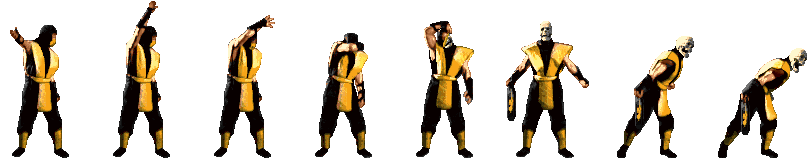
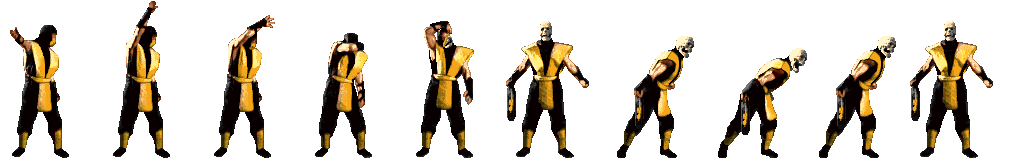
state FatalityHitting

diff --git a/view/GameView.cpp b/view/GameView.cpp
@@ -77,7 +77,7 @@ GameView::~GameView() {
     if (raidenWalk != NULL ) delete  raidenWalk;
     if (scorpionFatalityHit != NULL ) delete  scorpionFatalityHit;
     if (scorpionFatalityFire != NULL ) delete  scorpionFatalityFire;
-    if (scorpionOnFire != NULL ) delete  scorpionOnFire;
+    if (scorpionReceivingFire != NULL ) delete  scorpionReceivingFire;
 
     if (raidenStance != NULL) delete  raidenStance;
     if (raidenJump != NULL ) delete  raidenJump;
@@ -99,7 +99,7 @@ GameView::~GameView() {
     if (raidenBlock != NULL ) delete  raidenBlock;
     if (raidenFatalityHit != NULL ) delete  raidenFatalityHit;
     if (raidenFatalityFire != NULL ) delete  raidenFatalityFire;
-    if (raidenOnFire != NULL ) delete  raidenOnFire;
+    if (raidenReceivingFire != NULL ) delete  raidenReceivingFire;
 
     for (int i = 1 ; i < layerCount ; i++) {
         delete layerSprites[i];
@@ -180,22 +180,22 @@ void GameView::LoadSprites(string name1, string name2) {
             this->loadAsScorpion(scorpionWalk,scorpionStance,scorpionJump,scorpionDuck,scorpionSideJump,scorpionHighKick,scorpionLowKick,
             					scorpionDuckKick,scorpionJumpKick,scorpionPunchJump,scorpionDuckPunch,scorpionHighPunch,scorpionLowPunch,
             					scorpionWinner, scorpionShoot, scorpionDizzy,scorpionFall,scorpionBeingHit,
-            					scorpionBeingHitDown, scorpionBlockDown, scorpionBlock, scorpionFatalityHit, scorpionFatalityFire,scorpionOnFire, false);
+            					scorpionBeingHitDown, scorpionBlockDown, scorpionBlock, scorpionFatalityHit, scorpionFatalityFire,scorpionReceivingFire, false);
 
             this->loadAsScorpion(raidenWalk,raidenStance,raidenJump,raidenDuck,raidenSideJump,raidenHighKick,raidenLowKick,
             		raidenDuckKick,raidenJumpKick,raidenPunchJump,raidenDuckPunch,raidenPunch,raidenLowPunch,raidenWinner,
                                 raidenShoot, raidenDizzy,raidenFall,raidenBeingHit,raidenBeingHitDown,
-                                raidenBlockDown, raidenBlock,raidenFatalityHit, raidenFatalityFire,raidenOnFire, colorAltered);
+                                raidenBlockDown, raidenBlock,raidenFatalityHit, raidenFatalityFire,raidenReceivingFire, colorAltered);
         } else {
             this->loadAsRaiden(scorpionWalk,scorpionStance,scorpionJump,scorpionSideJump,scorpionDuck,scorpionHighKick,scorpionLowKick,
             					scorpionDuckKick,scorpionJumpKick, scorpionPunchJump,scorpionDuckPunch,scorpionHighPunch,scorpionLowPunch,
             					scorpionWinner, scorpionShoot,scorpionDizzy,scorpionFall,scorpionBeingHit,
-                                scorpionBeingHitDown,scorpionBlockDown,scorpionBlock,scorpionFatalityHit, scorpionFatalityFire,scorpionOnFire, false);
+                                scorpionBeingHitDown,scorpionBlockDown,scorpionBlock,scorpionFatalityHit, scorpionFatalityFire,scorpionReceivingFire, false);
 
             this->loadAsRaiden(raidenWalk,raidenStance,raidenJump,raidenSideJump,raidenDuck,raidenHighKick,raidenLowKick,
             		raidenDuckKick,raidenJumpKick,raidenPunchJump,raidenDuckPunch,raidenPunch,raidenLowPunch,raidenWinner,
                                 raidenShoot,raidenDizzy,raidenFall,raidenBeingHit, raidenBeingHitDown,raidenBlockDown,raidenBlock,
-                                raidenFatalityHit, raidenFatalityFire,raidenOnFire,colorAltered);
+                                raidenFatalityHit, raidenFatalityFire,raidenReceivingFire,colorAltered);
         }
     }
 
@@ -203,24 +203,24 @@ void GameView::LoadSprites(string name1, string name2) {
         this->loadAsScorpion(scorpionWalk,scorpionStance,scorpionJump,scorpionDuck,scorpionSideJump,scorpionHighKick,scorpionLowKick,
 							 scorpionDuckKick,scorpionJumpKick, scorpionPunchJump,scorpionDuckPunch,scorpionHighPunch,scorpionLowPunch,scorpionWinner,
 							 scorpionShoot, scorpionDizzy,scorpionFall,scorpionBeingHit,scorpionBeingHitDown,
-							 scorpionBlockDown, scorpionBlock,scorpionFatalityHit, scorpionFatalityFire,scorpionOnFire,false);
+							 scorpionBlockDown, scorpionBlock,scorpionFatalityHit, scorpionFatalityFire,scorpionReceivingFire,false);
 
         this->loadAsRaiden(raidenWalk,raidenStance,raidenJump,raidenSideJump,raidenDuck,raidenHighKick,raidenLowKick,
         					raidenDuckKick,raidenJumpKick,raidenPunchJump,raidenDuckPunch,raidenPunch,raidenLowPunch,raidenWinner,
                            raidenShoot,raidenDizzy,raidenFall,raidenBeingHit,
-                           raidenBeingHitDown,raidenBlockDown,raidenBlock,raidenFatalityHit, raidenFatalityFire,raidenOnFire, false);
+                           raidenBeingHitDown,raidenBlockDown,raidenBlock,raidenFatalityHit, raidenFatalityFire,raidenReceivingFire, false);
 
     } else if (name1 == "raiden" && name2 == "scorpion") {
 
         this->loadAsRaiden(scorpionWalk,scorpionStance,scorpionJump,scorpionSideJump,scorpionDuck,scorpionHighKick,scorpionLowKick,
         					scorpionDuckKick,scorpionJumpKick,scorpionPunchJump,scorpionDuckPunch,scorpionHighPunch,scorpionLowPunch,scorpionWinner,
         					scorpionShoot,scorpionDizzy,scorpionFall,scorpionBeingHit,
-        					scorpionBeingHitDown,scorpionBlockDown,scorpionBlock,scorpionFatalityHit, scorpionFatalityFire,scorpionOnFire, false);
+        					scorpionBeingHitDown,scorpionBlockDown,scorpionBlock,scorpionFatalityHit, scorpionFatalityFire,scorpionReceivingFire, false);
 
         this->loadAsScorpion(raidenWalk,raidenStance,raidenJump,raidenDuck,raidenSideJump,raidenHighKick,raidenLowKick,
         					raidenDuckKick,raidenJumpKick,raidenPunchJump,raidenDuckPunch,raidenPunch,raidenLowPunch,raidenWinner,
                              raidenShoot, raidenDizzy,raidenFall,raidenBeingHit,raidenBeingHitDown, raidenBlockDown,
-                             raidenBlock,raidenFatalityHit, raidenFatalityFire,raidenOnFire,false);
+                             raidenBlock,raidenFatalityHit, raidenFatalityFire,raidenReceivingFire,false);
     }
 
     scorpionSprites = {{"Stance", scorpionStance},{"MovingRight", scorpionWalk},{"MovingLeft", scorpionWalk},{"Jumping", scorpionJump},
@@ -230,7 +230,7 @@ void GameView::LoadSprites(string name1, string name2) {
     {"Blocking", scorpionBlock},{"WeaponHitting", scorpionShoot},{"Dizzy", scorpionDizzy},{"ReceivingDuckingPunch", scorpionFall},
     {"RecevingHit", scorpionBeingHit},{"ReceivingDuckingKick", scorpionFall},{"BLOCKDOWN", scorpionBlockDown}, {"LowKickHitting",scorpionLowKick},
     {"KickLeftJumpingHitting",scorpionJumpKick},{"KickRightJumpingHitting",scorpionJumpKick},{"LowPunchHitting",scorpionLowPunch},
-    {"LowKickHitting", scorpionLowKick},{"FatalityHit", scorpionFatalityHit},{"FatalityFire", scorpionFatalityFire},{"OnFire", scorpionOnFire}};
+    {"LowKickHitting", scorpionLowKick},{"FatalityHitting", scorpionFatalityHit},{"FireHitting", scorpionFatalityFire},{"ReceivingFire", scorpionReceivingFire}};
 
     raidenSprites = {{"Stance", raidenStance},{"MovingRight", raidenWalk},{"MovingLeft", raidenWalk},{"Jumping", raidenJump},
 	{"JumpingRight", raidenSideJump},{"JumpingLeft", raidenSideJump},{"Ducking", raidenDuck},{"HighKickHitting", raidenHighKick},
@@ -239,7 +239,7 @@ void GameView::LoadSprites(string name1, string name2) {
 	{"Blocking", raidenBlock},{"WeaponHitting", raidenShoot},{"Dizzy", raidenDizzy},{"ReceivingDuckingPunch", raidenFall},
 	{"RecevingHit", raidenBeingHit},{"ReceivingDuckingKick", raidenFall},{"BLOCKDOWN", raidenBlockDown},{"LowKickHitting",raidenLowKick},
     {"KickLeftJumpingHitting",raidenJumpKick},{"KickRightJumpingHitting",raidenJumpKick},{"LowPunchHitting",raidenLowPunch},
-    {"LowKickHitting", raidenLowKick},{"FatalityHit", raidenFatalityHit},{"FatalityFire", raidenFatalityFire},{"OnFire", raidenOnFire}};
+    {"LowKickHitting", raidenLowKick},{"FatalityHitting", raidenFatalityHit},{"FireHitting", raidenFatalityFire},{"ReceivingFire", raidenReceivingFire}};
 
 }
 
@@ -273,7 +273,7 @@ void GameView::loadAsScorpion(CharacterSprite*& walk, CharacterSprite*& stance, 
     blockDown = new CharacterSprite(this->renderer, scorpion->getFileMovement(MOVE_NAME_BLOCKDOWN), scorpion->getX(), scorpion->getY(), scorpion->getWidth(), scorpion->getHeight(), 2, oponentSide, true, colorAltered, this->painter);
     block = new CharacterSprite(this->renderer, scorpion->getFileMovement(MOVE_NAME_BLOCK), scorpion->getX(), scorpion->getY(), scorpion->getWidth(), scorpion->getHeight(), 3, oponentSide, true, colorAltered, this->painter);
 
-    fatalityHit = new CharacterSprite(this->renderer, scorpion->getFileMovement(MOVE_NAME_FATALITY_HIT), scorpion->getX(), scorpion->getY(), scorpion->getWidth(), scorpion->getHeight(), 8, oponentSide, false, colorAltered, this->painter);
+    fatalityHit = new CharacterSprite(this->renderer, scorpion->getFileMovement(MOVE_NAME_FATALITY_HIT), scorpion->getX(), scorpion->getY(), scorpion->getWidth(), scorpion->getHeight(), 10, oponentSide, true, colorAltered, this->painter);
     fatalityFire = new CharacterSprite(this->renderer, scorpion->getFileMovement(MOVE_NAME_FALTALITY_FIRE), scorpion->getX(), scorpion->getY(), scorpion->getWidth(), scorpion->getHeight(), 4, oponentSide, false, colorAltered, this->painter);
     onFire = new CharacterSprite(this->renderer, scorpion->getFileMovement(MOVE_NAME_ON_FIRE), scorpion->getX(), scorpion->getY(), scorpion->getWidth(), scorpion->getHeight(), 11, oponentSide, false, colorAltered, this->painter);
 }
@@ -308,7 +308,7 @@ void GameView::loadAsRaiden(CharacterSprite*& walk, CharacterSprite*& stance, Ch
     blockDown = new CharacterSprite(this->renderer, raiden->getFileMovement(MOVE_NAME_BLOCKDOWN), raiden->getX(), raiden->getY(), raiden->getWidth(), raiden->getHeight(), 2, oponentSide, true, colorAltered, this->painter);
     block = new CharacterSprite(this->renderer, raiden->getFileMovement(MOVE_NAME_BLOCK), raiden->getX(), raiden->getY(), raiden->getWidth(), raiden->getHeight(), 3, oponentSide, true, colorAltered, this->painter);
 
-    fatalityHit = new CharacterSprite(this->renderer, raiden->getFileMovement(MOVE_NAME_FATALITY_HIT), raiden->getX(), raiden->getY(), raiden->getWidth(), raiden->getHeight(), 8, oponentSide, false, colorAltered, this->painter);
+    fatalityHit = new CharacterSprite(this->renderer, raiden->getFileMovement(MOVE_NAME_FATALITY_HIT), raiden->getX(), raiden->getY(), raiden->getWidth(), raiden->getHeight(), 10, oponentSide, true, colorAltered, this->painter);
 	fatalityFire = new CharacterSprite(this->renderer, raiden->getFileMovement(MOVE_NAME_FALTALITY_FIRE), raiden->getX(), raiden->getY(), raiden->getWidth(), raiden->getHeight(), 4, oponentSide, false, colorAltered, this->painter);
 	onFire = new CharacterSprite(this->renderer, raiden->getFileMovement(MOVE_NAME_ON_FIRE), raiden->getX(), raiden->getY(), raiden->getWidth(), raiden->getHeight(), 11, oponentSide, false, colorAltered, this->painter);
 }
@@ -336,7 +336,7 @@ void GameView::RestartAllScorpionSprites()
 
 	scorpionFatalityHit->reset();
 	scorpionFatalityFire->reset();
-	scorpionOnFire->reset();
+	scorpionReceivingFire->reset();
 }
 
 void GameView::RestartAllRaidenSprites()
@@ -360,7 +360,7 @@ void GameView::RestartAllRaidenSprites()
 
 	raidenFatalityHit->reset();
 	raidenFatalityFire->reset();
-	raidenOnFire->reset();
+	raidenReceivingFire->reset();
 }
 
 void GameView::startRender() {
@@ -468,7 +468,7 @@ void GameView::initializeCharactersSprites() {
     scorpionBlock=NULL;
     scorpionFatalityHit=NULL;
     scorpionFatalityFire=NULL;
-    scorpionOnFire=NULL;
+    scorpionReceivingFire=NULL;
 
     raidenWalk=NULL;
     raidenStance=NULL;
@@ -491,7 +491,7 @@ void GameView::initializeCharactersSprites() {
     raidenBlock=NULL;
     raidenFatalityHit=NULL;
     raidenFatalityFire=NULL;
-    raidenOnFire=NULL;
+    raidenReceivingFire=NULL;
 }
 
 void GameView::loadMusicAndSounds() {

diff --git a/model/character/CharacterStance.cpp b/model/character/CharacterStance.cpp
@@ -1,8 +1,8 @@
+#include "Jumping.h"
 #include <iostream>
 #include "CharacterStance.h"
 #include "MovingRight.h"
 #include "MovingLeft.h"
-#include "Jumping.h"
 #include "Ducking.h"
 #include "HighPunchHitting.h"
 #include "LowPunchHitting.h"
@@ -15,6 +15,8 @@
 #include "ReceivingDuckingKick.h"
 #include "BeingOverPassedLeft.h"
 #include "BeingOverPassedRight.h"
+#include "FatalityHitting.h"
+#include "ReceivingFire.h"
 
 CharacterStance::CharacterStance() {
 //    this->timer = -1
@@ -70,6 +72,9 @@ void CharacterStance::update(MKCharacter * character, Events aEvent) {
             break;
         case ReceiveHit:
             character->setState(new RecevingHit());
+            break;
+        case FatalityHit:
+            character->setState(new FatalityHitting());
             break;
         case OverPassed:
             if (character->getCharacterSide() == 'l') {

diff --git a/model/character/FatalityHitting.cpp b/model/character/FatalityHitting.cpp
@@ -6,17 +6,39 @@
  */
 
 #include "FatalityHitting.h"
+#include "CharacterStance.h"
 
 FatalityHitting::FatalityHitting() {
-	// TODO Auto-generated constructor stub
+	this->timer = 60;
 
 }
 
 FatalityHitting::~FatalityHitting() {
-	// TODO Auto-generated destructor stub
 }
 
 string FatalityHitting::getName() {
     return "FatalityHitting";
 }
 
+void FatalityHitting::refreshTimer(MKCharacter* character) {
+
+//	if (this->timer == 0) {
+//		character->setState(new CharacterStance());
+////		cout << "stance " << endl;
+//		this->timer = 60;
+//	}
+//
+//	this->timer -= 1;
+}
+
+bool FatalityHitting::startThrowing() {
+	return false;
+}
+
+float FatalityHitting::getWidth() {
+    return 1.6;
+}
+
+float FatalityHitting::getHeight() {
+    return 1.2;
+}

diff --git a/model/constantes.h b/model/constantes.h
@@ -111,6 +111,8 @@ const unsigned char DEFAULT_KEY[20] = "adwscezqxokljmnbypb";
 
 //
 
-enum Events { MoveRight, MoveLeft, Jump, Duck, WeaponHit, HighPunch, LowPunch, HighKick, LowKick, Block, ReceiveHit, ReceiveDuckingPunch, ReceiveDuckingKick, ReceiveWeapon, MoveRightRelease, MoveLeftRelease, DuckRelease, BlockRelease, JumpFinished, OverPassed, OverPassedFinished};
+enum Events { MoveRight, MoveLeft, Jump, Duck, WeaponHit, HighPunch, LowPunch, HighKick, LowKick, Block, ReceiveHit,
+	ReceiveDuckingPunch, ReceiveDuckingKick, ReceiveWeapon, MoveRightRelease, MoveLeftRelease, DuckRelease, BlockRelease,
+	JumpFinished, OverPassed, OverPassedFinished, FatalityHit, FatalityFire, ReceiveFire};
 
 #endif /* CONSTANTES_H_ */

diff --git a/model/Game.h b/model/Game.h
@@ -4,7 +4,6 @@
 #include "MKCharacter.h"
 #include "constantes.h"
 #include "../view/GameView.h"
-//#include "../controller/GameController.h" //TODO: ESTO CUANDO SE PASE A INPUT CONTROLLER HAY Q BORRARLO
 #include "../controller/InputController.h"
 #include "../controller/CameraController.h"
 #include "../controller/Collider.h"
@@ -34,7 +33,6 @@ private:
     int ScreenWidth;
     int ScreenHeight;
     GameView* gameView;
-//    GameController* gameController;//TODO: ESTO CUANDO SE PASE A INPUT CONTROLLER HAY Q BORRARLO
     InputController* inputController;
     CameraController* cameraController;
     Collider* collider;

diff --git a/view/GameView.h b/view/GameView.h
@@ -86,7 +86,7 @@ private:
 
     CharacterSprite* scorpionFatalityHit;
     CharacterSprite* scorpionFatalityFire;
-    CharacterSprite* scorpionOnFire;
+    CharacterSprite* scorpionReceivingFire;
 
     CharacterSprite* raidenWalk;
     CharacterSprite* raidenStance;
@@ -111,7 +111,7 @@ private:
     CharacterSprite* raidenBlock;
     CharacterSprite* raidenFatalityHit;
     CharacterSprite* raidenFatalityFire;
-    CharacterSprite* raidenOnFire;
+    CharacterSprite* raidenReceivingFire;
 
     LayerSprite** layerSprites;
     int layerCount;

diff --git a/model/MKCharacter.cpp b/model/MKCharacter.cpp
@@ -299,6 +299,10 @@ float MKCharacter::getStateWidth() {
 	return (this->ancho)*(this->state->getWidth());
 }
 
+float MKCharacter::getStateHeight() {
+	return (this->alto)*(this->state->getHeight());
+}
+
 bool MKCharacter::isHitting() {
 	return this->state->isHitting();
 }
@@ -349,9 +353,7 @@ void MKCharacter::throwWeapon() {
 	}
 }
 
-float MKCharacter::getStateHeight() {
-	return (this->alto)*(this->state->getHeight());
-}
+
 
 void MKCharacter::disableImpact() {
 	this->state->disableImpact(this);

diff --git a/controller/EventController.cpp b/controller/EventController.cpp
@@ -93,10 +93,12 @@ void EventController::block(){
 
 void EventController::blockRelease(){
 //	cout << "blockRelease : " << this->characterToMove->getName() << endl;
+
 	this->characterToMove->update(BlockRelease);
 }
 
 void EventController::duckPunch(){
 //	cout << "duckPunch : " << this->characterToMove->getName() << endl;
 //	this->characterToMove->update(DuckPunch);
+	this->characterToMove->update(FatalityHit);
 }

diff --git a/controller/KeyboardController.cpp b/controller/KeyboardController.cpp
@@ -64,6 +64,10 @@ void KeyboardController::update(MKCharacter* character, MKCharacter* character2,
 					this->stageController->shoot();
 				}
 				break;
+			case SDLK_o:
+				this->stageController->setCharacterToMove(character);
+				this->stageController->duckPunch();
+				break;
 			/****************************************************************************************************/
 
 			case SDLK_d:

diff --git a/model/character/FatalityHitting.h b/model/character/FatalityHitting.h
@@ -15,6 +15,12 @@ public:
 	FatalityHitting();
 	virtual ~FatalityHitting();
 	string getName();
+	void refreshTimer(MKCharacter* character);
+	bool startThrowing();
+	float getWidth();
+	float getHeight();
+private:
+	int timer;
 };
 
 #endif /* FATALITYHITTING_H_ */
